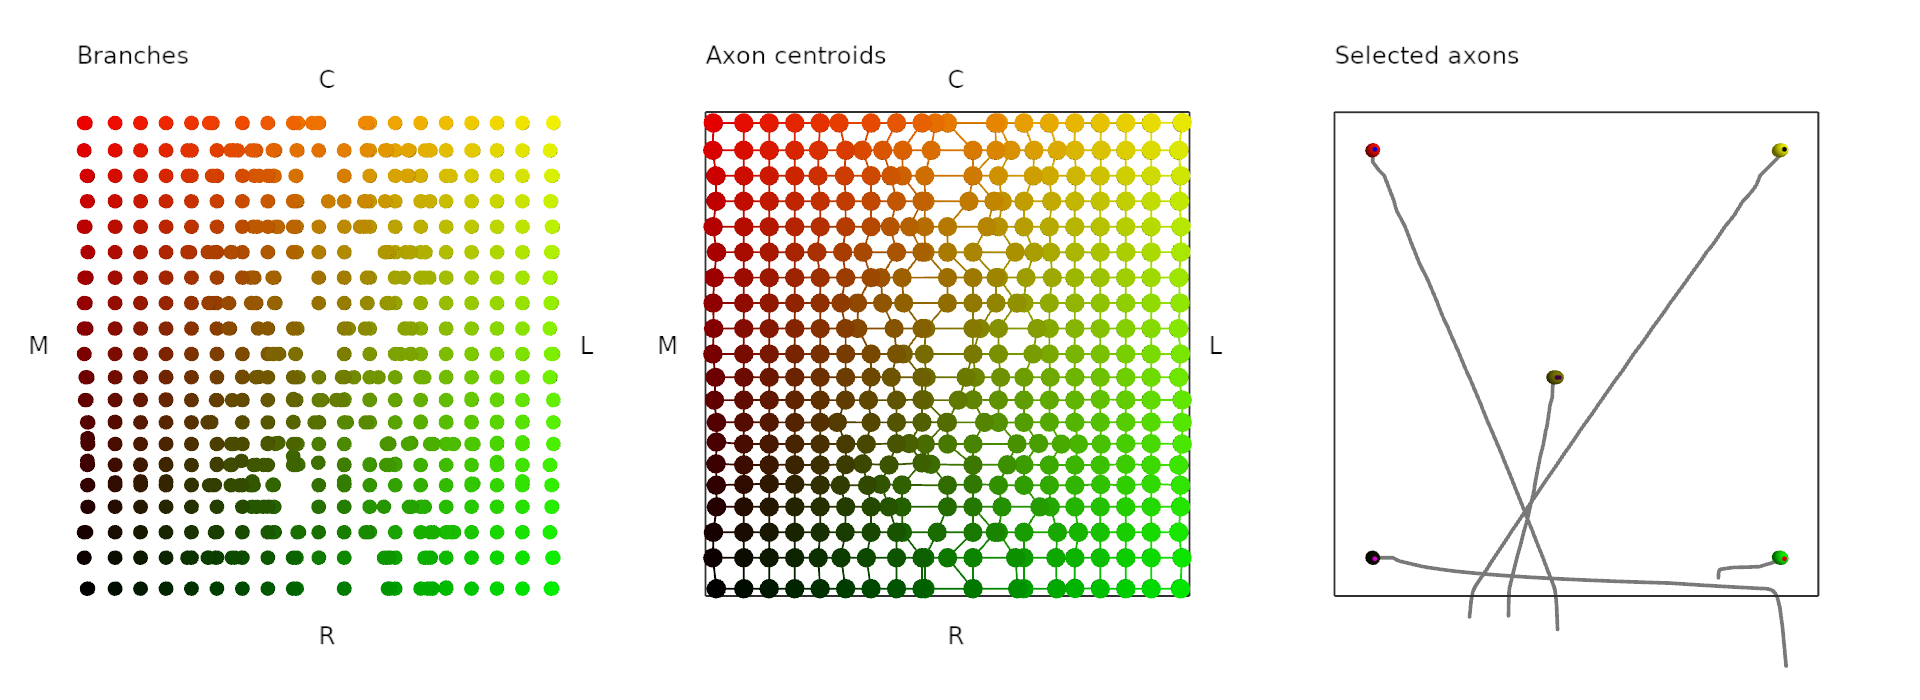
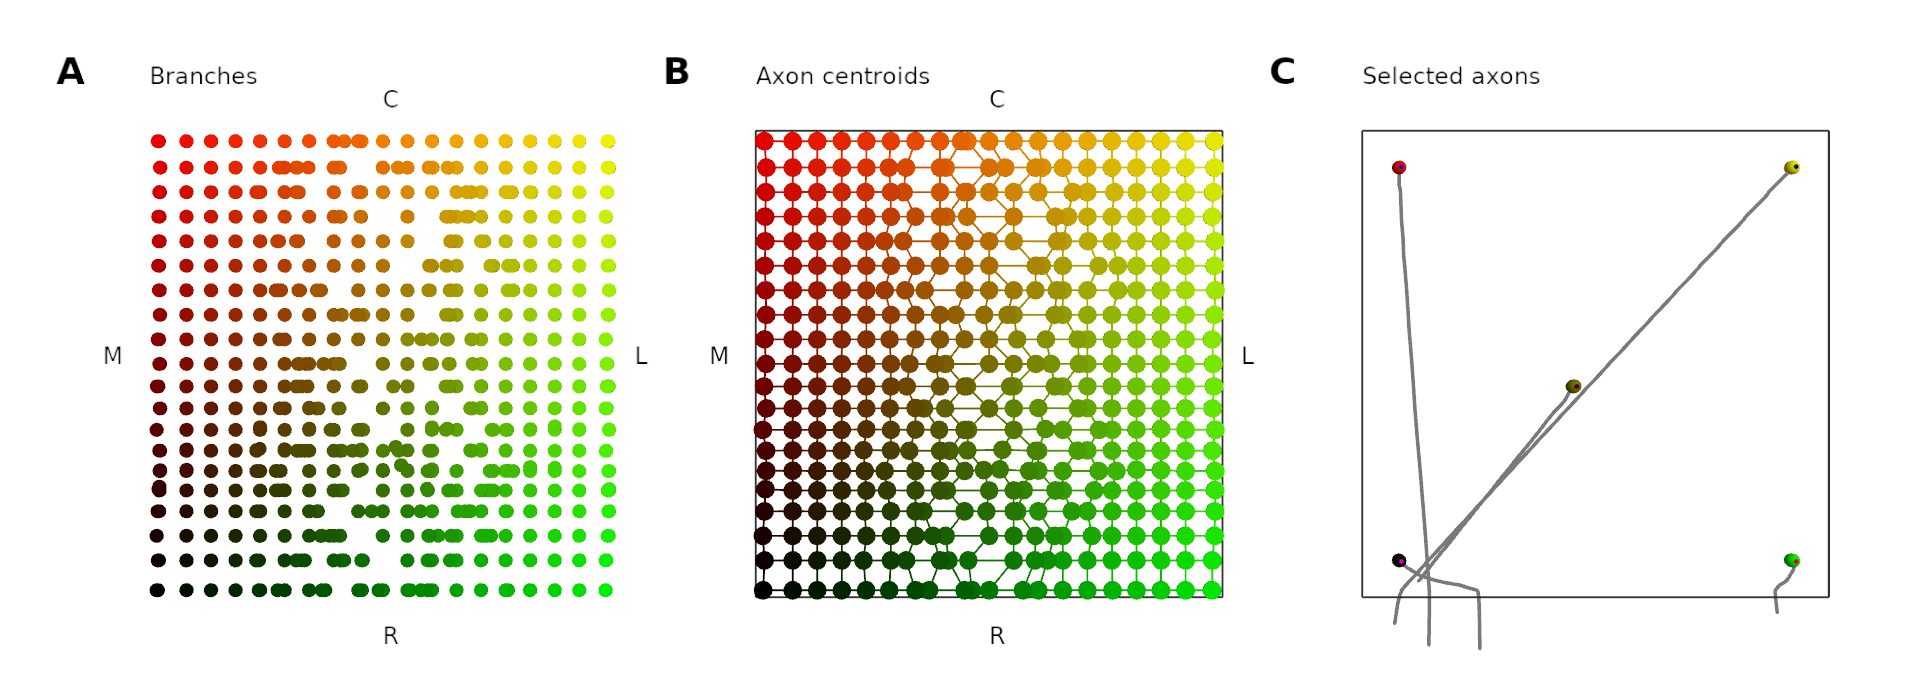
Adds letters to Fig 3

diff --git a/sim/agent/agent1.h b/sim/agent/agent1.h
@@ -1186,7 +1186,7 @@ struct Agent1
         if (this->layout == graph_layout::a || this->layout == graph_layout::d) {
             this->v->setSceneTrans (-0.3762f, 0.6880f, -5.3f);
         } else if (this->layout == graph_layout::b) {
-            this->v->setSceneTrans (-0.948019743f, -0.00213310868f, -2.69999981f);
+            this->v->setSceneTrans (-0.2375f, -0.03f, -2.8f);
         } else if (this->layout == graph_layout::e) {
             this->v->setSceneTrans (-0.890077f, -0.0236414f, -2.6f);
         } else if (this->layout == graph_layout::c) {
@@ -1329,52 +1329,8 @@ struct Agent1
 
             v->addVisualModel (jtvm);
 
-        } else if (this->layout == graph_layout::b) { // A pared down layout with 3 or 4 graphs (expt, branches, centroids, selected) (but decide 3 or 4)
-#if 0
-            // Experiment: Another NetVisual view showing the target locations
-            this->tcv = new NetVisual<T> (v->shaderprog, v->tshaderprog, offset, &this->ax_centroids);
-            this->tcv->viewmode = netvisual_viewmode::targetplus;
-            this->tcv->finalize();
-            this->tcv->addLabel ("Experiment", {0.0f, 1.1f, 0.0f});
-            v->addVisualModel (this->tcv);
-
-            offset[0] += 1.3f;
-#endif
-            // Branches: Visualise the branches with a custom VisualModel
-            this->bv = new BranchVisual<T, N, B> (v->shaderprog, v->tshaderprog, offset, &this->branches, &this->ax_history);
-            this->bv->rcpt_scale.compute_autoscale (rcpt_min, rcpt_max);
-            this->bv->target_scale.compute_autoscale (0, 1);
-            this->bv->view = branchvisual_view::discs;
-            this->bv->finalize();
-            this->bv->addLabel ("Branches", {0.0f, 1.1f, 0.0f});
-            this->addOrientationLabels (this->bv, std::string("Tectal"));
-            v->addVisualModel (this->bv);
-
-            // Axon centroids: Centroids of branches viewed with a NetVisual
-            offset[0] += 1.3f;
-            this->cv = new NetVisual<T> (v->shaderprog, v->tshaderprog, offset, &this->ax_centroids);
-            //this->cv->maxlen = this->conf->getDouble ("maxnetline", 1.0);
-            //this->cv->viewmode = netvisual_viewmode::actual_nolines;
-            this->cv->viewmode = netvisual_viewmode::actual;
-            if (this->layout == graph_layout::b) {
-                this->cv->radiusFixed = 0.02;
-            }
-            this->cv->finalize();
-            this->cv->addLabel ("Axon centroids", {0.0f, 1.1f, 0.0f});
-            this->addOrientationLabels (this->cv, std::string("Tectal"));
-            v->addVisualModel (this->cv);
-
-            offset[0] += 1.3f;
-            // Selected axons: This one gives an 'axon view'
-            this->av = new BranchVisual<T, N, B> (v->shaderprog, v->tshaderprog, offset, &this->branches, &this->ax_history);
-            this->av->view = branchvisual_view::axonview;
-            for (auto sa : this->seeaxons) { this->av->seeaxons.insert(sa); }
-            this->av->rcpt_scale.compute_autoscale (rcpt_min, rcpt_max);
-            this->av->target_scale.compute_autoscale (0, 1);
-            this->av->finalize();
-            this->av->addLabel ("Selected axons", {0.0f, 1.1f, 0.0f});
-            v->addVisualModel (this->av);
-
+        } else if (this->layout == graph_layout::b) {
+            this->graph_layout_b (offset);
         } else if (this->layout == graph_layout::c) { // Layout with diff. time end points
             this->graph_layout_c (offset);
 
@@ -1461,6 +1417,57 @@ struct Agent1
             throw std::runtime_error ("Unknown layout");
         }
         this->visinit_done = true;
+    }
+
+    void graph_layout_b (const morph::Vector<float>& offset0)
+    {
+        morph::Vector<float> g_A = offset0 + morph::Vector<float>({0.0f, 0.0f, 0.0f});
+        morph::Vector<float> g_B = offset0 + morph::Vector<float>({1.3f, 0.0f, 0.0f});
+        morph::Vector<float> g_C = offset0 + morph::Vector<float>({2.6f, 0.0f, 0.0f});
+
+        // A pared down layout with 3 or 4 graphs (expt, branches, centroids, selected) (but decide 3 or 4)
+        // Branches: Visualise the branches with a custom VisualModel
+        this->bv = new BranchVisual<T, N, B> (v->shaderprog, v->tshaderprog, g_A, &this->branches, &this->ax_history);
+        this->bv->rcpt_scale.compute_autoscale (rcpt_min, rcpt_max);
+        this->bv->target_scale.compute_autoscale (0, 1);
+        this->bv->view = branchvisual_view::discs;
+        this->bv->finalize();
+        this->bv->addLabel ("Branches", {0.0f, 1.1f, 0.0f});
+        this->addOrientationLabels (this->bv, std::string("Tectal"));
+        v->addVisualModel (this->bv);
+
+        // Axon centroids: Centroids of branches viewed with a NetVisual
+        this->cv = new NetVisual<T> (v->shaderprog, v->tshaderprog, g_B, &this->ax_centroids);
+        //this->cv->maxlen = this->conf->getDouble ("maxnetline", 1.0);
+        //this->cv->viewmode = netvisual_viewmode::actual_nolines;
+        this->cv->viewmode = netvisual_viewmode::actual;
+        if (this->layout == graph_layout::b) {
+            this->cv->radiusFixed = 0.02;
+        }
+        this->cv->finalize();
+        this->cv->addLabel ("Axon centroids", {0.0f, 1.1f, 0.0f});
+        this->addOrientationLabels (this->cv, std::string("Tectal"));
+        v->addVisualModel (this->cv);
+
+        // Selected axons: This one gives an 'axon view'
+        this->av = new BranchVisual<T, N, B> (v->shaderprog, v->tshaderprog, g_C, &this->branches, &this->ax_history);
+        this->av->view = branchvisual_view::axonview;
+        for (auto sa : this->seeaxons) { this->av->seeaxons.insert(sa); }
+        this->av->rcpt_scale.compute_autoscale (rcpt_min, rcpt_max);
+        this->av->target_scale.compute_autoscale (0, 1);
+        this->av->finalize();
+        this->av->addLabel ("Selected axons", {0.0f, 1.1f, 0.0f});
+        v->addVisualModel (this->av);
+
+        // Figure letters
+        morph::Vector<float> ozero = {-0.2f, 1.1f, 0.0f};
+        float lfs = 0.08f; // letter font size
+        int lpts = 36; // letter point resolution
+        morph::VisualModel* jtvm = new morph::VisualModel (v->shaderprog, v->tshaderprog, ozero);
+        jtvm->addLabel ("A", g_A, morph::colour::black, morph::VisualFont::VeraBold, lfs, lpts);
+        jtvm->addLabel ("B", g_B, morph::colour::black, morph::VisualFont::VeraBold, lfs, lpts);
+        jtvm->addLabel ("C", g_C, morph::colour::black, morph::VisualFont::VeraBold, lfs, lpts);
+        this->v->addVisualModel (jtvm);
     }
 
     // Create a layout with diff. time end points

diff --git a/paper/paper.tex b/paper/paper.tex
@@ -646,7 +646,7 @@ range $[p,q)$. Each of the $n$ branches per RGC axon was given its parent
 axon's initial position, plus a randomly generated offset with coordinates
 derived from a normal distribution of mean 0 and standard deviation 0.1.
 
-\subsection*{Simulation}
+\subsection*{Assumptions}
 
 % All the extra bits of info required to specify the simulation
 To enable a simulation of the model described above it is necessary to make
@@ -665,34 +665,37 @@ $m_5=0.5$. The number of branches per axon was 4 unless otherwise stated.
 
 \section{Results}
 
+\subsection*{Chemoaffinity alone}
+
 The first question we tried to answer was whether chemoaffinity alone,
 implemented as gradient following, is sufficient to pattern the tectum. We set
 $m_1=0.002$ and $m_2=m_3=m_4=0$ and ran the model for 300
 steps.
 
-Fig.\,\ref{f:ch}A indicates the colour code used for retinal cell position;
-dorsal retinal cells are indicated by green, nasal cells by red. Lightness
-gives position along the relevant axis so that cells at the dorsal-nasal
-corner are yellow and those at the ventral-transverse corner are
-black. Fig.\,\ref{f:ch}E shows the expected layout of retinal ganglion cell
-axons on the tectum. The axons retain the colour of their originating cell on
-the retina, as shown in Fig.\,\ref{f:ch}A. Nasal cell axons should be arranged
-caudally; dorsal axons laterally; axons should be evenly spaced and the
-pattern should span the entire tectum.  Fig.\,\ref{f:ch}B--D show `fish net'
-plots of the centroid of the branches of each axon at three timepoints. In
-these plots, lines are drawn between axons that are expected to arrange
-themselves adjacently to one another. The number of line crossings in this
-plot gives an indication of the disorder in the arrangement. Fig.\,\ref{f:ch}G
-shows the positions of the individual branches (i.e.~growth cones) at $t=300$
-that contribute to the the plot in Fig.\,\ref{f:ch}D. By this time, the
-topological order matches that shown in Fig.\,\ref{f:ch}E. Opposing gradients
-have sorted the axons along the two axes to form a grid of cells. However, the
-arrangement does not span the full tectum. Fig.\,\ref{f:ch}F shows two pattern
-metrics; the sum of squared distance errors of the axon centroids and the
-number of crossings in the fish net plot of Fig.\,\ref{f:ch}D. The expected
-number of crossings is 0, as in Fig.\,\ref{f:ch}E. Fig.\,\ref{f:ch}H shows
-selected axons (one from the centre and one from each corner of the retina)
-and their position history.
+Results are shown in Fig.\,\ref{f:ch}. Fig.\,\ref{f:ch}A indicates the colour
+code used for retinal cell position; dorsal retinal cells are indicated by
+green, nasal cells by red. Lightness gives position along the relevant axis so
+that cells at the dorsal-nasal corner are yellow and those at the
+ventral-transverse corner are black. Fig.\,\ref{f:ch}E shows the expected
+layout of retinal ganglion cell axons on the tectum. The axons retain the
+colour of their originating cell on the retina, as shown in
+Fig.\,\ref{f:ch}A. Nasal cell axons should be arranged caudally; dorsal axons
+laterally; axons should be evenly spaced and the pattern should span the
+entire tectum.  Fig.\,\ref{f:ch}B--D show `fish net' plots of the axon
+centroids at three timepoints. An axon's centroid is the average location of
+its 4 branches. In these plots, lines are drawn between axons that are
+expected to arrange themselves adjacently to one another by the end of the
+simulation. The number of line crossings in this plot gives an indication of
+the disorder in the arrangement. Fig.\,\ref{f:ch}G shows the positions of the
+individual branches (i.e.~growth cones) at $t=300$ that contribute to the the
+plot in Fig.\,\ref{f:ch}D. By this time, the topological order matches that
+shown in Fig.\,\ref{f:ch}E. Opposing gradients have sorted the axons along the
+two axes to form a grid of cells. However, the arrangement does not span the
+full tectum. Fig.\,\ref{f:ch}F shows two pattern metrics; the sum of squared
+distance errors of the axon centroids and the number of crossings in the fish
+net plot of Fig.\,\ref{f:ch}D. The expected number of crossings is 0, as in
+Fig.\,\ref{f:ch}E. Fig.\,\ref{f:ch}H shows selected axons (one from the centre
+and one from each corner of the retina) and their position history.
 
 % ./build/sim/agent/agent1 configs/simpler/m_ee_G.json configs/simpler/e_wt_fig2.json
 \begin{figure}
@@ -712,13 +715,18 @@ expression:
 L_i^{\text{exp}}(x,y) = 1.05 + 0.26 \exp(1.1 x)
 \end{equation}
 
+for the tectal ligand expression.
+
 The result at $t=300$ is shown in Fig.\,\ref{f:chalt}A and B. The axon
 centroids are arranged across the full tectal surface.  The arrangement is
 slightly disordered around the middle of the tectum. This is caused by
 numerical artefacts from the discretization of the ligand expression and the
 fact that in the centre, the difference between the opposing receptor-ligand
-signals is very small.  Fig .\,\ref{f:chalt}C shows the error metric, which is
-closer to 0 with the new ligand expression.
+signals is very small. Nevertheless, it is demonstrated that a modified form
+for the tectal ligand expression (which was found easily by hand tuning)
+allows a well ordered map to form for the wildtype system. Fig
+.\,\ref{f:chalt}C shows the error metric, which is closer to 0 with the new
+ligand expression.
 
 % ./build/sim/agent/agent1 configs/simpler/m_eE_G.json  configs/simpler/e_wt_fig2.json
 \begin{figure}
@@ -727,6 +735,8 @@ closer to 0 with the new ligand expression.
 \label{f:chalt}
 \end{figure}
 
+The `chemoaffinity only' model begins to encounter problems when we introduce
+simulations of experimental manipulations.
 
 %\begin{figure}
 %\includegraphics[width=\linewidth]{./images/j4_eE_GJ_wt_fig.png}
